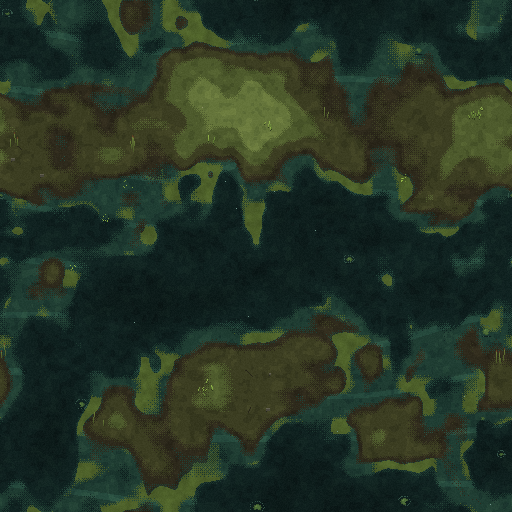
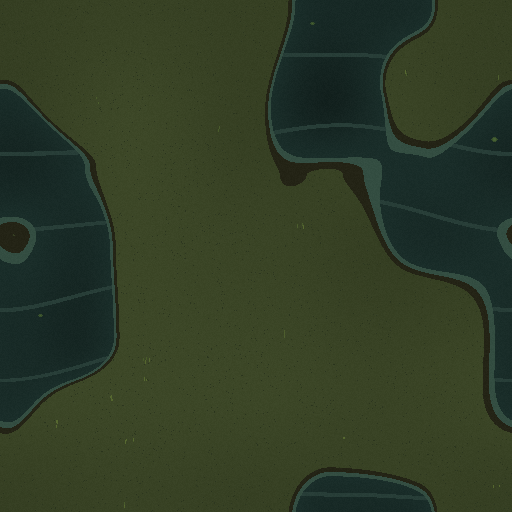
Add files via upload

diff --git a/MAP/index.html b/MAP/index.html
@@ -4,7 +4,7 @@
 <meta charset="UTF-8">
 <meta name="viewport" content="width=device-width, initial-scale=1.0, maximum-scale=1.0, user-scalable=no, viewport-fit=cover">
 <title>Pembe Panterler — Unutulmuş Orman</title>
-<link rel="stylesheet" href="css/style.css?v=11">
+<link rel="stylesheet" href="css/style.css?v=12">
 </head>
 <body>
 
@@ -110,23 +110,23 @@
 <!-- SIRALAMA ÖNEMLİ: dosyalar yukarıdan aşağı bu sırayla yüklenir, sırayı bozma!
      13-account-bridge: kazançları ana oyuna taşır · 14-hero-stats: hesap
      statlarını haritaya uygular · 15-hud: HUD canlandırma (bar, seviye, isim). -->
-<script src="js/00-core.js?v=11"></script>
-<script src="js/01-assets.js?v=11"></script>
-<script src="js/02-world.js?v=11"></script>
-<script src="js/03-player.js?v=11"></script>
-<script src="js/04-economy.js?v=11"></script>
-<script src="js/05-effects.js?v=11"></script>
-<script src="js/06-orc.js?v=11"></script>
-<script src="js/07-soldier.js?v=11"></script>
-<script src="js/08-goblin.js?v=11"></script>
-<script src="js/09-wave.js?v=11"></script>
-<script src="js/10-input.js?v=11"></script>
-<script src="js/11-render.js?v=11"></script>
-<script src="js/13-account-bridge.js?v=11"></script>
-<script src="js/14-hero-stats.js?v=11"></script>
-<script src="js/12-main.js?v=11"></script>
-<script src="js/15-hud.js?v=11"></script>
-<script src="js/16-settings.js?v=11"></script>
+<script src="js/00-core.js?v=12"></script>
+<script src="js/01-assets.js?v=12"></script>
+<script src="js/02-world.js?v=12"></script>
+<script src="js/03-player.js?v=12"></script>
+<script src="js/04-economy.js?v=12"></script>
+<script src="js/05-effects.js?v=12"></script>
+<script src="js/06-orc.js?v=12"></script>
+<script src="js/07-soldier.js?v=12"></script>
+<script src="js/08-goblin.js?v=12"></script>
+<script src="js/09-wave.js?v=12"></script>
+<script src="js/10-input.js?v=12"></script>
+<script src="js/11-render.js?v=12"></script>
+<script src="js/13-account-bridge.js?v=12"></script>
+<script src="js/14-hero-stats.js?v=12"></script>
+<script src="js/12-main.js?v=12"></script>
+<script src="js/15-hud.js?v=12"></script>
+<script src="js/16-settings.js?v=12"></script>
 
 <!-- ============ MOBİL: TAM EKRAN + YATAY KİLİT (v2 — inatçı sürüm) ============
 ESKİ SORUN: { once:true } yüzünden ilk deneme reddedilirse bir daha ASLA

diff --git a/MAP/js/00-core.js b/MAP/js/00-core.js
@@ -100,8 +100,8 @@ var BIOMES = {
     // İç tip adları: orc=Blood Monster (ŞANSLI canavar), soldier=Demon, goblin=Pawn.
     loot: {
       bookPct: 0.035,                                  // %3.5 kitap (hepsinden)
-      rareItemPct: 0.001,                              // %0.1 NADİR eşya (hepsinden)
-      stdItemPct: { orc: 0.085, soldier: 0.045, goblin: 0.045 }, // sıradan eşya: Blood %8.5, diğerleri %4.5
+      rareItemPct: 0.005,                              // %0.5 NADİR eşya (hepsinden — 200 kesimde ~1)
+      stdItemPct: { orc: 0.02, soldier: 0.02, goblin: 0.02 },    // sıradan eşya %2 (hepsinde eşit — denge ayarı)
       goldW:  [[1, 50], [2, 40], [3, 30], [4, 10]],    // her kesim 1-4 altın (ağırlık 50/40/30/10)
       scrapW: [[1, 50], [2, 40], [3, 30], [4, 10]],    // hurda aynı oranlar
       exp: { orc: [3, 7], soldier: [5, 7], goblin: [3, 5] }, // min3-max7; en tehlikeli (Demon) en cömert